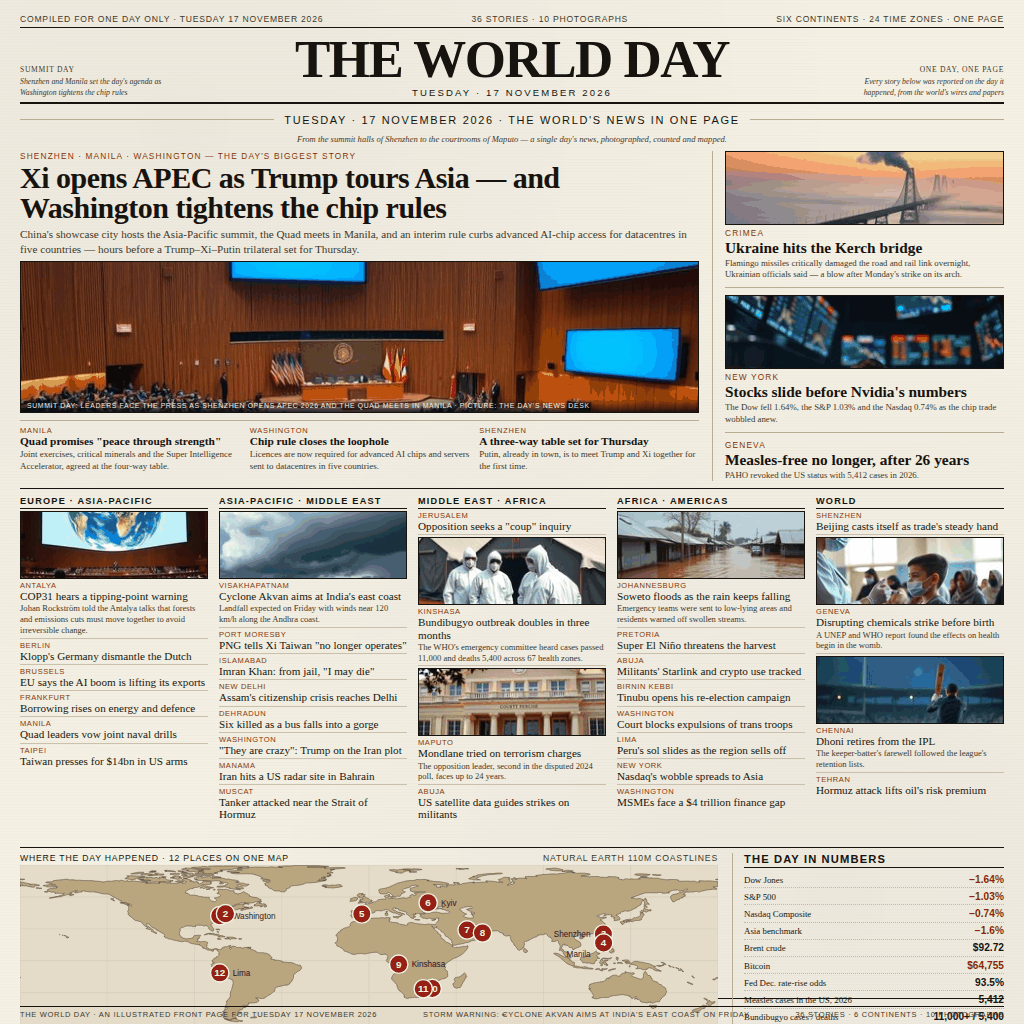
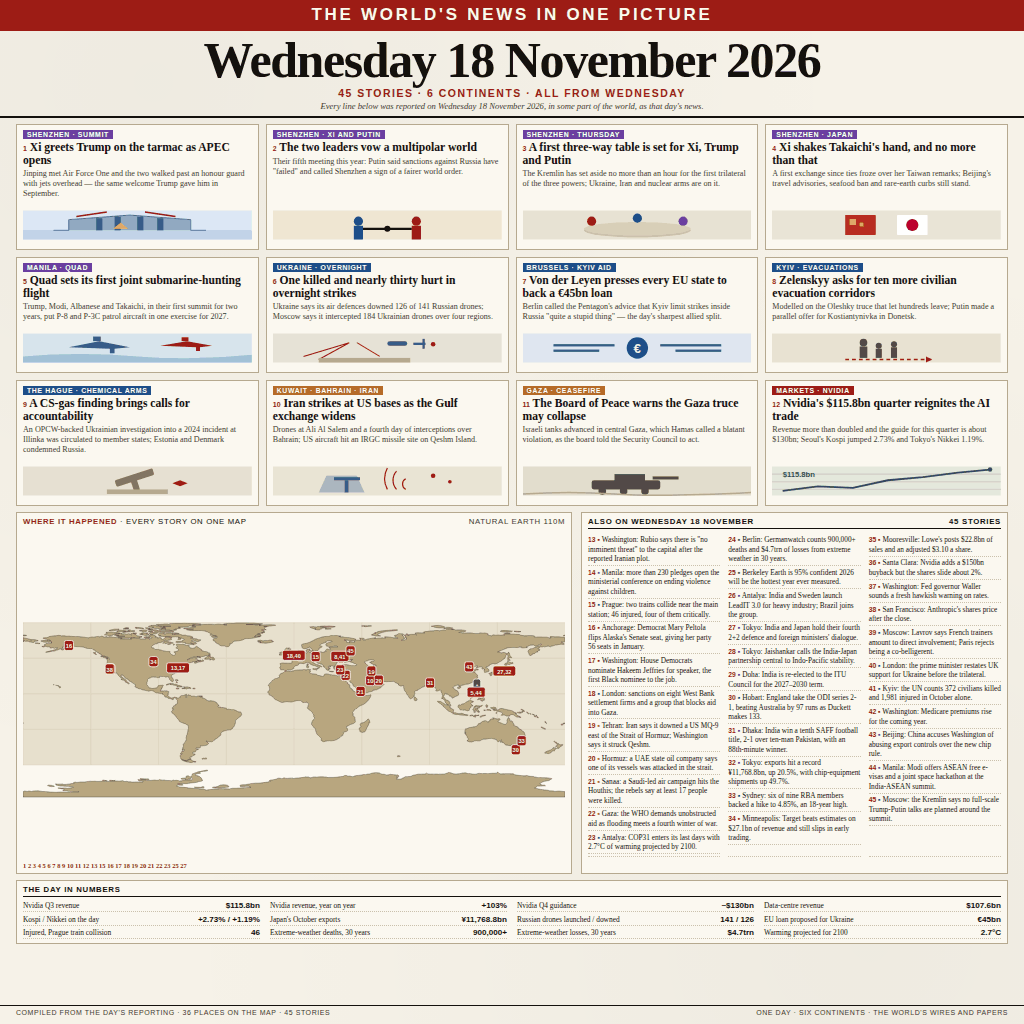
feat: 18 November 2026 as a numbered news dashboard
Rebuilt for the 18 November round in the shape the previous round's leaders use:
the date as the masthead, twelve illustrated modules colour-coded by region, a
world map with a numbered pin per place, numbered one-line briefs, and the day
in numbers. 45 stories, 6 continents.

diff --git a/poster/poster-v5.html b/poster/poster-v5.html
@@ -1,0 +1,348 @@
+<!doctype html>
+<html lang="en">
+<head>
+<meta charset="utf-8">
+<title>The world's news in one picture — Wednesday 18 November 2026</title>
+<style>
+  :root{ --paper:#f6f2e8; --ink:#14110d; --ink2:#413a30; --rule:#b6a98f; --red:#9d1c15; }
+  *{box-sizing:border-box}
+  html,body{margin:0;padding:0;width:1024px;height:1024px;overflow:hidden;background:var(--paper);}
+  body{font-family:"Liberation Serif","DejaVu Serif",Georgia,serif;color:var(--ink);
+       background-image:radial-gradient(circle at 15% 8%, rgba(0,0,0,.03), transparent 55%),
+                        radial-gradient(circle at 85% 92%, rgba(0,0,0,.03), transparent 55%);}
+  .sheet{width:1024px;height:1024px;padding:0 0 8px;display:flex;flex-direction:column}
+  .sans{font-family:"Liberation Sans","DejaVu Sans",Arial,sans-serif}
+  .caps{text-transform:uppercase;letter-spacing:.08em}
+
+  .banner{background:var(--red);color:#fdf9ef;text-align:center;padding:5px 0 6px}
+  .banner .t{font-size:17px;font-weight:700;letter-spacing:.16em}
+  .head{padding:6px 18px 5px;text-align:center;border-bottom:2.5px solid var(--ink)}
+  .head h1{margin:0;font-size:50px;line-height:.94;letter-spacing:-1.4px}
+  .head .strap{font-size:10.5px;margin-top:3px;letter-spacing:.14em;color:var(--red);font-weight:700}
+  .head .sub{font-size:8.6px;margin-top:2px;color:var(--ink2);font-style:italic}
+
+  .body{padding:6px 16px 0;display:flex;flex-direction:column;gap:6px;flex:1;min-height:0}
+  .page > *{flex:0 0 auto}
+
+  /* twelve illustrated modules */
+  .mods{display:grid;grid-template-columns:repeat(4,1fr);gap:7px;height:382px}
+  .m{border:1px solid var(--rule);background:#fbf8f0;padding:5px 6px;display:flex;flex-direction:column;overflow:hidden}
+  .m .tag{font-size:6.9px;font-weight:700;letter-spacing:.09em;color:#fff;display:inline-block;padding:1px 4px;margin-bottom:3px;align-self:flex-start}
+  .m h3{margin:0;font-size:11.6px;line-height:1.08}
+  .m p{margin:2px 0 0;font-size:8.1px;line-height:1.24;color:var(--ink2)}
+  .m .ico{margin-top:auto;padding-top:3px}
+  .m .ico svg{display:block;width:100%;height:38px}
+  .m .n{font-family:"Liberation Sans",Arial;font-size:7px;font-weight:700;color:var(--red)}
+
+  /* bottom band: map + briefs + numbers */
+  .band{display:grid;grid-template-columns:556px 1fr;gap:9px;height:362px}
+  .mapbox{border:1px solid var(--rule);background:#fbf8f0;padding:4px 6px 3px;display:flex;flex-direction:column;min-height:0}
+  .mapbox .cap{display:flex;justify-content:space-between;align-items:baseline;font-size:7.8px;margin-bottom:2px}
+  .mapbox .cap b{color:var(--red)}
+  .mapsvg{flex:1;min-height:0}
+  .mapsvg svg{display:block;width:100%;height:100%}
+  .mapkey{font-size:6.5px;color:var(--ink2);line-height:1.3;column-count:3;column-gap:8px;margin-top:2px}
+  .mapkey b{color:var(--red)}
+
+  .right{display:flex;flex-direction:column;gap:6px;min-height:0}
+  .briefs{border:1px solid var(--rule);background:#fbf8f0;padding:4px 6px;flex:1;min-height:0;display:flex;flex-direction:column}
+  .briefs .cap{font-size:7.8px;font-weight:700;letter-spacing:.09em;border-bottom:1.5px solid var(--ink);padding-bottom:2px;margin-bottom:3px;display:flex;justify-content:space-between}
+  .briefcols{display:grid;grid-template-columns:repeat(3,1fr);gap:0 8px;font-size:7.3px;line-height:1.28;min-height:0}
+  .briefcols div{padding:1.6px 0;border-bottom:1px dotted rgba(182,169,143,.7)}
+  .briefcols b{font-family:"Liberation Sans",Arial;color:var(--red);font-size:6.8px}
+  .numbers{border:1px solid var(--rule);background:#fbf8f0;padding:4px 6px}
+  .numbers .cap{font-size:7.8px;font-weight:700;letter-spacing:.09em;border-bottom:1.5px solid var(--ink);padding-bottom:2px;margin-bottom:3px}
+  .figs{display:grid;grid-template-columns:repeat(4,1fr);gap:1px 10px}
+  .fig{display:flex;justify-content:space-between;font-size:7.4px;padding:1.2px 0;border-bottom:1px dotted rgba(182,169,143,.7)}
+  .fig .v{font-family:"Liberation Sans",Arial;font-weight:700;font-size:8.1px}
+  .foot{display:flex;justify-content:space-between;align-items:baseline;font-size:7px;color:var(--ink2);padding:3px 16px 0;border-top:1.5px solid var(--ink);margin-top:4px}
+</style>
+</head>
+<body>
+<div class="sheet">
+  <div class="banner sans caps"><div class="t">The world's news in one picture</div></div>
+  <div class="head">
+    <h1>Wednesday 18 November 2026</h1>
+    <div class="strap sans caps" id="strap">—</div>
+    <div class="sub">Every line below was reported on Wednesday 18 November 2026, in some part of the world, as that day's news.</div>
+  </div>
+
+  <div class="body">
+    <div class="mods" id="mods"></div>
+
+    <div class="band">
+      <div class="mapbox">
+        <div class="cap sans caps"><span><b>Where it happened</b> · every story on one map</span><span id="mapnote" style="color:#413a30"></span></div>
+        <div class="mapsvg" id="map"></div>
+        <div class="mapkey" id="mapkey"></div>
+      </div>
+
+      <div class="right">
+        <div class="briefs">
+          <div class="cap sans caps"><span>Also on Wednesday 18 November</span><span id="briefcount"></span></div>
+          <div class="briefcols" id="briefcols"></div>
+        </div>
+      </div>
+    </div>
+    <div class="numbers">
+          <div class="cap sans caps">The day in numbers</div>
+          <div class="figs">
+            <div class="fig"><span>Nvidia Q3 revenue</span><span class="v">$115.8bn</span></div>
+            <div class="fig"><span>Nvidia revenue, year on year</span><span class="v">+103%</span></div>
+            <div class="fig"><span>Nvidia Q4 guidance</span><span class="v">~$130bn</span></div>
+            <div class="fig"><span>Data-centre revenue</span><span class="v">$107.6bn</span></div>
+            <div class="fig"><span>Kospi / Nikkei on the day</span><span class="v">+2.73% / +1.19%</span></div>
+            <div class="fig"><span>Japan's October exports</span><span class="v">¥11,768.8bn</span></div>
+            <div class="fig"><span>Russian drones launched / downed</span><span class="v">141 / 126</span></div>
+            <div class="fig"><span>EU loan proposed for Ukraine</span><span class="v">€45bn</span></div>
+            <div class="fig"><span>Injured, Prague train collision</span><span class="v">46</span></div>
+            <div class="fig"><span>Extreme-weather deaths, 30 years</span><span class="v">900,000+</span></div>
+            <div class="fig"><span>Extreme-weather losses, 30 years</span><span class="v">$4.7trn</span></div>
+            <div class="fig"><span>Warming projected for 2100</span><span class="v">2.7°C</span></div>
+          </div>
+    </div>
+  </div>
+
+  <div class="foot sans caps">
+    <span id="footleft">—</span>
+    <span>One day · six continents · the world's wires and papers</span>
+  </div>
+</div>
+
+<script>
+/* ------------------------------------------------------------------
+   Twelve illustrated stories, then the day's other stories as numbered
+   one-liners. Region colours follow the tags: Americas red, Europe blue,
+   Middle East orange, Asia purple, Africa green, Oceania teal.
+------------------------------------------------------------------ */
+const COL = {Americas:"#9d1c15", Europe:"#1d4e89", "Middle East":"#b06a12", Asia:"#6b3fa0", Africa:"#1f6f43", Oceania:"#12706b", World:"#4a4a4a"};
+const R = r => COL[r] || COL.World;
+
+const MODULES = [
+  {n:1, r:"Asia", tag:"Shenzhen · summit", hl:"Xi greets Trump on the tarmac as APEC opens",
+   body:"Jinping met Air Force One and the two walked past an honour guard with jets overhead — the same welcome Trump gave him in September.",
+   ico:"summit"},
+  {n:2, r:"Asia", tag:"Shenzhen · Xi and Putin", hl:"The two leaders vow a multipolar world",
+   body:"Their fifth meeting this year: Putin said sanctions against Russia have \"failed\" and called Shenzhen a sign of a fairer world order.",
+   ico:"handshake"},
+  {n:3, r:"Asia", tag:"Shenzhen · Thursday", hl:"A first three-way table is set for Xi, Trump and Putin",
+   body:"The Kremlin has set aside no more than an hour for the first trilateral of the three powers; Ukraine, Iran and nuclear arms are on it.",
+   ico:"table"},
+  {n:4, r:"Asia", tag:"Shenzhen · Japan", hl:"Xi shakes Takaichi's hand, and no more than that",
+   body:"A first exchange since ties froze over her Taiwan remarks; Beijing's travel advisories, seafood ban and rare-earth curbs still stand.",
+   ico:"flags"},
+  {n:5, r:"Asia", tag:"Manila · Quad", hl:"Quad sets its first joint submarine-hunting flight",
+   body:"Trump, Modi, Albanese and Takaichi, in their first summit for two years, put P-8 and P-3C patrol aircraft in one exercise for 2027.",
+   ico:"plane"},
+  {n:6, r:"Europe", tag:"Ukraine · overnight", hl:"One killed and nearly thirty hurt in overnight strikes",
+   body:"Ukraine says its air defences downed 126 of 141 Russian drones; Moscow says it intercepted 184 Ukrainian drones over four regions.",
+   ico:"drone"},
+  {n:7, r:"Europe", tag:"Brussels · Kyiv aid", hl:"Von der Leyen presses every EU state to back a €45bn loan",
+   body:"Berlin called the Pentagon's advice that Kyiv limit strikes inside Russia \"quite a stupid thing\" — the day's sharpest allied split.",
+   ico:"euro"},
+  {n:8, r:"Europe", tag:"Kyiv · evacuations", hl:"Zelenskyy asks for ten more civilian evacuation corridors",
+   body:"Modelled on the Oleshky truce that let hundreds leave; Putin made a parallel offer for Kostiantynivka in Donetsk.",
+   ico:"family"},
+  {n:9, r:"Europe", tag:"The Hague · chemical arms", hl:"A CS-gas finding brings calls for accountability",
+   body:"An OPCW-backed Ukrainian investigation into a 2024 incident at Illinka was circulated to member states; Estonia and Denmark condemned Russia.",
+   ico:"gavel"},
+  {n:10, r:"Middle East", tag:"Kuwait · Bahrain · Iran", hl:"Iran strikes at US bases as the Gulf exchange widens",
+   body:"Drones at Ali Al Salem and a fourth day of interceptions over Bahrain; US aircraft hit an IRGC missile site on Qeshm Island.",
+   ico:"radar"},
+  {n:11, r:"Middle East", tag:"Gaza · ceasefire", hl:"The Board of Peace warns the Gaza truce may collapse",
+   body:"Israeli tanks advanced in central Gaza, which Hamas called a blatant violation, as the board told the Security Council to act.",
+   ico:"tank"},
+  {n:12, r:"Americas", tag:"Markets · Nvidia", hl:"Nvidia's $115.8bn quarter reignites the AI trade",
+   body:"Revenue more than doubled and the guide for this quarter is about $130bn; Seoul's Kospi jumped 2.73% and Tokyo's Nikkei 1.19%.",
+   ico:"chart"}
+];
+
+const BRIEFS = [
+  {n:13, r:"Americas", t:"Washington: Rubio says there is \"no imminent threat\" to the capital after the reported Iranian plot."},
+  {n:14, r:"Asia", t:"Manila: more than 230 pledges open the ministerial conference on ending violence against children."},
+  {n:15, r:"Europe", t:"Prague: two trains collide near the main station; 46 injured, four of them critically."},
+  {n:16, r:"Americas", t:"Anchorage: Democrat Mary Peltola flips Alaska's Senate seat, giving her party 56 seats in January."},
+  {n:17, r:"Americas", t:"Washington: House Democrats nominate Hakeem Jeffries for speaker, the first Black nominee to the job."},
+  {n:18, r:"Europe", t:"London: sanctions on eight West Bank settlement firms and a group that blocks aid into Gaza."},
+  {n:19, r:"Middle East", t:"Tehran: Iran says it downed a US MQ-9 east of the Strait of Hormuz; Washington says it struck Qeshm."},
+  {n:20, r:"Middle East", t:"Hormuz: a UAE state oil company says one of its vessels was attacked in the strait."},
+  {n:21, r:"Middle East", t:"Sanaa: a Saudi-led air campaign hits the Houthis; the rebels say at least 17 people were killed."},
+  {n:22, r:"Middle East", t:"Gaza: the WHO demands unobstructed aid as flooding meets a fourth winter of war."},
+  {n:23, r:"Europe", t:"Antalya: COP31 enters its last days with 2.7°C of warming projected by 2100."},
+  {n:24, r:"World", t:"Berlin: Germanwatch counts 900,000+ deaths and $4.7trn of losses from extreme weather in 30 years."},
+  {n:25, r:"World", t:"Berkeley Earth is 95% confident 2026 will be the hottest year ever measured."},
+  {n:26, r:"Asia", t:"Antalya: India and Sweden launch LeadIT 3.0 for heavy industry; Brazil joins the group."},
+  {n:27, r:"Asia", t:"Tokyo: India and Japan hold their fourth 2+2 defence and foreign ministers' dialogue."},
+  {n:28, r:"Asia", t:"Tokyo: Jaishankar calls the India-Japan partnership central to Indo-Pacific stability."},
+  {n:29, r:"Asia", t:"Doha: India is re-elected to the ITU Council for the 2027–2030 term."},
+  {n:30, r:"Oceania", t:"Hobart: England take the ODI series 2-1, beating Australia by 97 runs as Duckett makes 133."},
+  {n:31, r:"Asia", t:"Dhaka: India win a tenth SAFF football title, 2-1 over ten-man Pakistan, with an 88th-minute winner."},
+  {n:32, r:"Asia", t:"Tokyo: exports hit a record ¥11,768.8bn, up 20.5%, with chip-equipment shipments up 49.7%."},
+  {n:33, r:"Oceania", t:"Sydney: six of nine RBA members backed a hike to 4.85%, an 18-year high."},
+  {n:34, r:"Americas", t:"Minneapolis: Target beats estimates on $27.1bn of revenue and still slips in early trading."},
+  {n:35, r:"Americas", t:"Mooresville: Lowe's posts $22.8bn of sales and an adjusted $3.10 a share."},
+  {n:36, r:"Americas", t:"Santa Clara: Nvidia adds a $150bn buyback but the shares slide about 2%."},
+  {n:37, r:"Americas", t:"Washington: Fed governor Waller sounds a fresh hawkish warning on rates."},
+  {n:38, r:"Americas", t:"San Francisco: Anthropic's shares price after the close."},
+  {n:39, r:"Europe", t:"Moscow: Lavrov says French trainers amount to direct involvement; Paris rejects being a co-belligerent."},
+  {n:40, r:"Europe", t:"London: the prime minister restates UK support for Ukraine before the trilateral."},
+  {n:41, r:"Europe", t:"Kyiv: the UN counts 372 civilians killed and 1,981 injured in October alone."},
+  {n:42, r:"Americas", t:"Washington: Medicare premiums rise for the coming year."},
+  {n:43, r:"Asia", t:"Beijing: China accuses Washington of abusing export controls over the new chip rule."},
+  {n:44, r:"Asia", t:"Manila: Modi offers ASEAN free e-visas and a joint space hackathon at the India-ASEAN summit."},
+  {n:45, r:"Europe", t:"Moscow: the Kremlin says no full-scale Trump-Putin talks are planned around the summit."}
+];
+
+/* Story numbers -> map pins (lon, lat). Not every brief gets a pin. */
+const PINS = [
+  [1,121.5,22.6],[2,121.5,22.6],[3,121.5,22.6],[4,121.5,22.6],[5,121.0,14.6],[6,31.2,49.0],[7,4.4,50.8],
+  [8,30.5,50.4],[9,4.3,52.1],[10,50.6,26.2],[11,34.4,31.4],[12,-122.0,37.4],[13,-77.0,38.9],[15,14.4,50.1],
+  [16,-149.5,61.2],[17,-77.0,38.9],[18,-0.1,51.5],[19,51.4,35.7],[20,56.3,26.6],[21,44.2,15.4],[22,34.3,31.4],
+  [23,30.7,36.9],[25,-122.3,37.9],[27,139.7,35.7],[30,147.3,-42.9],[31,90.4,23.8],[32,139.7,35.7],
+  [33,151.2,-33.9],[34,-93.3,45.0],[36,-121.9,37.4],[38,-122.4,37.8],[40,-0.1,51.5],[41,30.5,50.4],[43,116.4,39.9],
+  [44,121.0,14.6],[45,37.6,55.8]
+];
+
+const IV = {
+  summit(){return `<svg viewBox="0 0 300 38" preserveAspectRatio="xMidYMid meet">
+    <rect width="300" height="38" fill="#dce7f5"/><rect y="26" width="300" height="12" fill="#c2d3e8"/>
+    <path d="M40 26 L60 26 L60 12 L140 6 L220 12 L220 26 L240 26" fill="#8fa9c4" stroke="#3b5878" stroke-width="1"/>
+    <g fill="#3b5878"><rect x="96" y="10" width="8" height="16"/><rect x="120" y="8" width="8" height="18"/><rect x="150" y="8" width="8" height="18"/><rect x="176" y="10" width="8" height="16"/></g>
+    <path d="M70 8 L110 2 M200 8 L160 2" stroke="#9d1c15" stroke-width="2"/>
+    <g fill="#f0c04a"><path d="M118 24 L128 16 L138 24 Z"/></g>
+  </svg>`},
+  handshake(){return `<svg viewBox="0 0 300 38" preserveAspectRatio="xMidYMid meet">
+    <rect width="300" height="38" fill="#efe6d2"/><g fill="#1d4e89"><circle cx="112" cy="14" r="6"/><rect x="106" y="20" width="12" height="18"/></g>
+    <g fill="#9d1c15"><circle cx="188" cy="14" r="6"/><rect x="182" y="20" width="12" height="18"/></g>
+    <path d="M118 24 L182 24" stroke="#14110d" stroke-width="3"/><circle cx="150" cy="24" r="4" fill="#14110d"/>
+  </svg>`},
+  table(){return `<svg viewBox="0 0 300 38" preserveAspectRatio="xMidYMid meet">
+    <rect width="300" height="38" fill="#e7e2d3"/>
+    <ellipse cx="150" cy="26" rx="70" ry="9" fill="#c8bda4"/><ellipse cx="150" cy="24" rx="70" ry="9" fill="#d8cfb8"/>
+    <g><circle cx="90" cy="14" r="6" fill="#9d1c15"/><circle cx="150" cy="10" r="6" fill="#1d4e89"/><circle cx="210" cy="14" r="6" fill="#6b3fa0"/></g>
+  </svg>`},
+  flags(){return `<svg viewBox="0 0 300 38" preserveAspectRatio="xMidYMid meet">
+    <rect width="300" height="38" fill="#e9e4d6"/>
+    <g transform="translate(96,6)"><rect width="40" height="26" fill="#de2910"/><rect x="6" y="5" width="8" height="8" fill="#ffde00"/><rect x="19" y="10" width="5" height="5" fill="#ffde00"/></g>
+    <g transform="translate(164,6)"><rect width="40" height="26" fill="#fff"/><circle cx="20" cy="13" r="8" fill="#bc002d"/></g>
+  </svg>`},
+  plane(){return `<svg viewBox="0 0 300 38" preserveAspectRatio="xMidYMid meet">
+    <rect width="300" height="38" fill="#d7e4ec"/><path d="M0 30 Q75 24 150 30 T300 28 L300 38 L0 38 Z" fill="#9fc0d4"/>
+    <g fill="#3b5878"><path d="M60 18 L100 10 L140 18 L120 20 L120 26 L114 26 L114 20 Z"/><rect x="92" y="4" width="10" height="6"/></g>
+    <g fill="#9d1c15"><path d="M180 16 L215 10 L248 16 L232 18 L232 23 L227 23 L227 18 Z"/><rect x="208" y="5" width="9" height="5"/></g>
+  </svg>`},
+  drone(){return `<svg viewBox="0 0 300 38" preserveAspectRatio="xMidYMid meet">
+    <rect width="300" height="38" fill="#e6e2d6"/>
+    <g stroke="#9d1c15" stroke-width="1.4" fill="none"><path d="M40 30 L100 12 M60 34 L100 12 M140 30 L110 12"/></g>
+    <g fill="#3b5878"><rect x="150" y="10" width="26" height="6" rx="3"/><rect x="184" y="12" width="16" height="3"/><rect x="196" y="7" width="3" height="13"/></g>
+    <g fill="#9d1c15"><circle cx="210" cy="14" r="3"/></g>
+    <g fill="#b6a98f"><rect x="60" y="32" width="120" height="6"/></g>
+  </svg>`},
+  euro(){return `<svg viewBox="0 0 300 38" preserveAspectRatio="xMidYMid meet">
+    <rect width="300" height="38" fill="#dfe6f0"/>
+    <circle cx="150" cy="19" r="14" fill="#1d4e89"/><text x="150" y="25" text-anchor="middle" font-family="Liberation Sans, Arial" font-size="17" font-weight="bold" fill="#f6f2e8">€</text>
+    <g fill="#3b5878"><rect x="40" y="14" width="80" height="3"/><rect x="40" y="21" width="60" height="3"/><rect x="180" y="14" width="80" height="3"/><rect x="200" y="21" width="60" height="3"/></g>
+  </svg>`},
+  family(){return `<svg viewBox="0 0 300 38" preserveAspectRatio="xMidYMid meet">
+    <rect width="300" height="38" fill="#e8e2d2"/>
+    <g fill="#4a4a4a"><circle cx="120" cy="12" r="5"/><rect x="115" y="17" width="10" height="15"/><circle cx="140" cy="16" r="4"/><rect x="136" y="20" width="8" height="12"/><circle cx="160" cy="14" r="4"/><rect x="156" y="18" width="8" height="14"/></g>
+    <path d="M96 34 L210 34" stroke="#9d1c15" stroke-width="2" stroke-dasharray="5 4"/>
+    <path d="M210 34 l-8 -4 l0 8 z" fill="#9d1c15"/>
+  </svg>`},
+  gavel(){return `<svg viewBox="0 0 300 38" preserveAspectRatio="xMidYMid meet">
+    <rect width="300" height="38" fill="#e6e0d2"/>
+    <g fill="#8a7350"><rect x="120" y="10" width="52" height="9" rx="2" transform="rotate(-18 146 14)"/><rect x="140" y="18" width="8" height="14" transform="rotate(-18 146 14)"/></g>
+    <rect x="110" y="30" width="80" height="6" fill="#b6a98f"/>
+    <g fill="#9d1c15"><path d="M196 22 l10 -4 l10 4 l-10 4 z"/></g>
+  </svg>`},
+  radar(){return `<svg viewBox="0 0 300 38" preserveAspectRatio="xMidYMid meet">
+    <rect width="300" height="38" fill="#e9e4d4"/>
+    <g fill="#3b5878"><path d="M60 34 L70 12 L110 12 L120 34 Z" opacity=".35"/><rect x="80" y="14" width="34" height="4"/><rect x="94" y="18" width="5" height="16"/></g>
+    <g stroke="#9d1c15" stroke-width="1.6" fill="none"><path d="M150 30 A30 30 0 0 1 150 2"/><path d="M162 30 A18 18 0 0 1 162 6"/><path d="M174 30 A8 8 0 0 1 174 16"/></g>
+    <g fill="#9d1c15"><circle cx="210" cy="12" r="3"/><circle cx="232" cy="20" r="2.4"/></g>
+  </svg>`},
+  tank(){return `<svg viewBox="0 0 300 38" preserveAspectRatio="xMidYMid meet">
+    <rect width="300" height="38" fill="#e2ddcd"/>
+    <g fill="#4a5a3a"><rect x="90" y="18" width="90" height="12" rx="3"/><circle cx="104" cy="32" r="5"/><circle cx="132" cy="32" r="5"/><circle cx="160" cy="32" r="5"/><rect x="120" y="10" width="40" height="9"/><rect x="170" y="13" width="34" height="4"/></g>
+    <path d="M0 36 Q60 32 120 36 T300 34" stroke="#b6a98f" stroke-width="2" fill="none"/>
+  </svg>`},
+  chart(){return `<svg viewBox="0 0 300 38" preserveAspectRatio="xMidYMid meet">
+    <rect width="300" height="38" fill="#e4e8dc"/>
+    <g stroke="#c3cbb6" stroke-width="1"><path d="M0 10 L300 10 M0 20 L300 20 M0 30 L300 30"/></g>
+    <path d="M14 32 L60 26 L106 28 L152 18 L198 14 L244 8 L286 4" fill="none" stroke="#1f6f43" stroke-width="2.4"/>
+    <g fill="#1f6f43"><circle cx="286" cy="4" r="3"/></g>
+    <text x="14" y="14" font-family="Liberation Sans, Arial" font-size="10" font-weight="bold" fill="#1f6f43">$115.8bn</text>
+  </svg>`}
+};
+
+/* ------------------------------------------------------------------ */
+function moduleHTML(m){
+  return `<div class="m">
+    <span class="tag sans caps" style="background:${R(m.r)}">${m.tag}</span>
+    <h3><span class="n sans">${m.n}</span> ${m.hl}</h3>
+    <p>${m.body}</p>
+    <div class="ico">${IV[m.ico]()}</div>
+  </div>`;
+}
+
+function render(){
+  document.getElementById('mods').innerHTML = MODULES.map(moduleHTML).join('');
+
+  /* briefs as numbered one-liners in two columns, split by measure */
+  const per = Math.ceil(BRIEFS.length/3);
+  const parts = [BRIEFS.slice(0,per), BRIEFS.slice(per,2*per), BRIEFS.slice(2*per)];
+  document.getElementById('briefcols').innerHTML =
+    parts.map(list=>`<div>${list.map(b=>`<div><b>${b.n}</b> <span style="color:${R(b.r)}">▪</span> ${b.t}</div>`).join('')}</div>`).join('');
+  document.getElementById('briefcount').textContent = (MODULES.length + BRIEFS.length) + " stories";
+
+  const stories = MODULES.length + BRIEFS.length;
+  document.getElementById('strap').textContent = `${stories} stories · 6 continents · all from Wednesday`;
+  document.getElementById('footleft').textContent = `Compiled from the day's reporting · ${PINS.length} places on the map · ${stories} stories`;
+
+  document.getElementById('mapkey').innerHTML = PINS.slice(0,24).map(([n])=>`<b>${n}</b>`).join(" ") ;
+  return stories;
+}
+
+async function drawMap(){
+  const W = 640, H = 168, lon0=-180, lon1=180, lat0=-58, lat1=84;
+  const px = lon => (lon-lon0)/(lon1-lon0)*W, py = lat => (lat1-lat)/(lat1-lat0)*H;
+  let land = "";
+  try{
+    const gj = await (await fetch('https://raw.githubusercontent.com/nvkelso/natural-earth-vector/master/geojson/ne_110m_land.geojson')).json();
+    const d = [], ring = c => { let s=""; c.forEach(([lo,la],i)=>{ s += (i?"L":"M")+px(lo).toFixed(1)+" "+py(la).toFixed(1); }); return s+"Z"; };
+    gj.features.forEach(f=>{ const g=f.geometry; if(!g) return;
+      if(g.type==='Polygon') g.coordinates.forEach(r=>d.push(ring(r)));
+      else if(g.type==='MultiPolygon') g.coordinates.forEach(p=>p.forEach(r=>d.push(ring(r)))); });
+    land = d.join(" ");
+    document.getElementById('mapnote').textContent = "Natural Earth 110m";
+  }catch(e){ document.getElementById('mapnote').textContent = "coastline source unavailable"; }
+
+  /* one pin per place, carrying every story number that happened there */
+  const grouped = new Map();
+  PINS.forEach(([n,lon,lat])=>{ const k = lon.toFixed(1)+","+lat.toFixed(1);
+    if(!grouped.has(k)) grouped.set(k,{lon,lat,ns:[]});
+    grouped.get(k).ns.push(n); });
+  const marks = [...grouped.values()].map(g=>{
+    const x = px(g.lon), y = py(g.lat);
+    const label = g.ns.length > 3 ? "•" : g.ns.join(",");
+    const w = Math.max(9, label.length*5.4);
+    return `<g><rect x="${(x-w/2).toFixed(1)}" y="${(y-6).toFixed(1)}" width="${w.toFixed(1)}" height="12" rx="2.5"
+      fill="${g.ns.length>3?"#4a4a4a":"#9d1c15"}" stroke="#f6f2e8" stroke-width="1"/>
+      <text x="${x.toFixed(1)}" y="${(y+3).toFixed(1)}" text-anchor="middle" font-family="Liberation Sans, Arial"
+        font-size="6.8" font-weight="bold" fill="#f6f2e8">${label}</text></g>`;
+  }).join('');
+  document.getElementById('map').innerHTML = `
+  <svg viewBox="0 0 ${W} ${H}" preserveAspectRatio="xMidYMid meet">
+    <rect width="${W}" height="${H}" fill="#e7e0cd"/>
+    <g stroke="#d3c9b0" stroke-width=".5">${[0,1,2,3,4].map(i=>`<path d="M0 ${(i*H/4).toFixed(1)} L${W} ${(i*H/4).toFixed(1)}"/>`).join('')}
+      ${[0,1,2,3,4,5,6,7].map(i=>`<path d="M${(i*W/8).toFixed(1)} 0 L${(i*W/8).toFixed(1)} ${H}"/>`).join('')}</g>
+    <path d="${land}" fill="#b8a67f" stroke="#4b4235" stroke-width=".5" fill-rule="evenodd"/>
+    ${marks}
+  </svg>`;
+}
+
+render();
+drawMap();
+</script>
+</body>
+</html>

diff --git a/poster/BUILD.md b/poster/BUILD.md
@@ -49,3 +49,16 @@ Both give the briefs grid an explicit height rather than letting the flex column
 divide the page: with a device-metrics override active (which is how the capture is
 taken) the browser divides that space differently, and a flex-sized grid then pushes
 its last briefs over the map band. The explicit height holds in both modes.
+
+## The 18 November dashboard (poster-v5.html)
+
+`entry.png` at the commits from 18 November is a 1024×1024 dashboard, built after reading the
+leaders of the previous day's round: the date itself is the masthead, twelve illustrated modules
+sit under a red banner, a world map carries a numbered pin for every story that happened in a
+place, roughly thirty further stories run as numbered one-liners below it, and the day in numbers
+closes the page. Region colours code the stories (Americas red, Europe blue, Middle East orange,
+Asia purple, Africa green, Oceania teal). Stories were taken from the reporting published on
+Wednesday 18 November 2026 — the Shenzhen APEC summit and the eve of the Xi-Trump-Putin
+trilateral, the Quad in Manila, overnight strikes and the EU loan debate on Ukraine, Iran's
+strikes on US bases in the Gulf and the Gaza truce warning, Nvidia's $115.8bn quarter, COP31's
+closing days — and every line carries the day's own figure, name or count.
